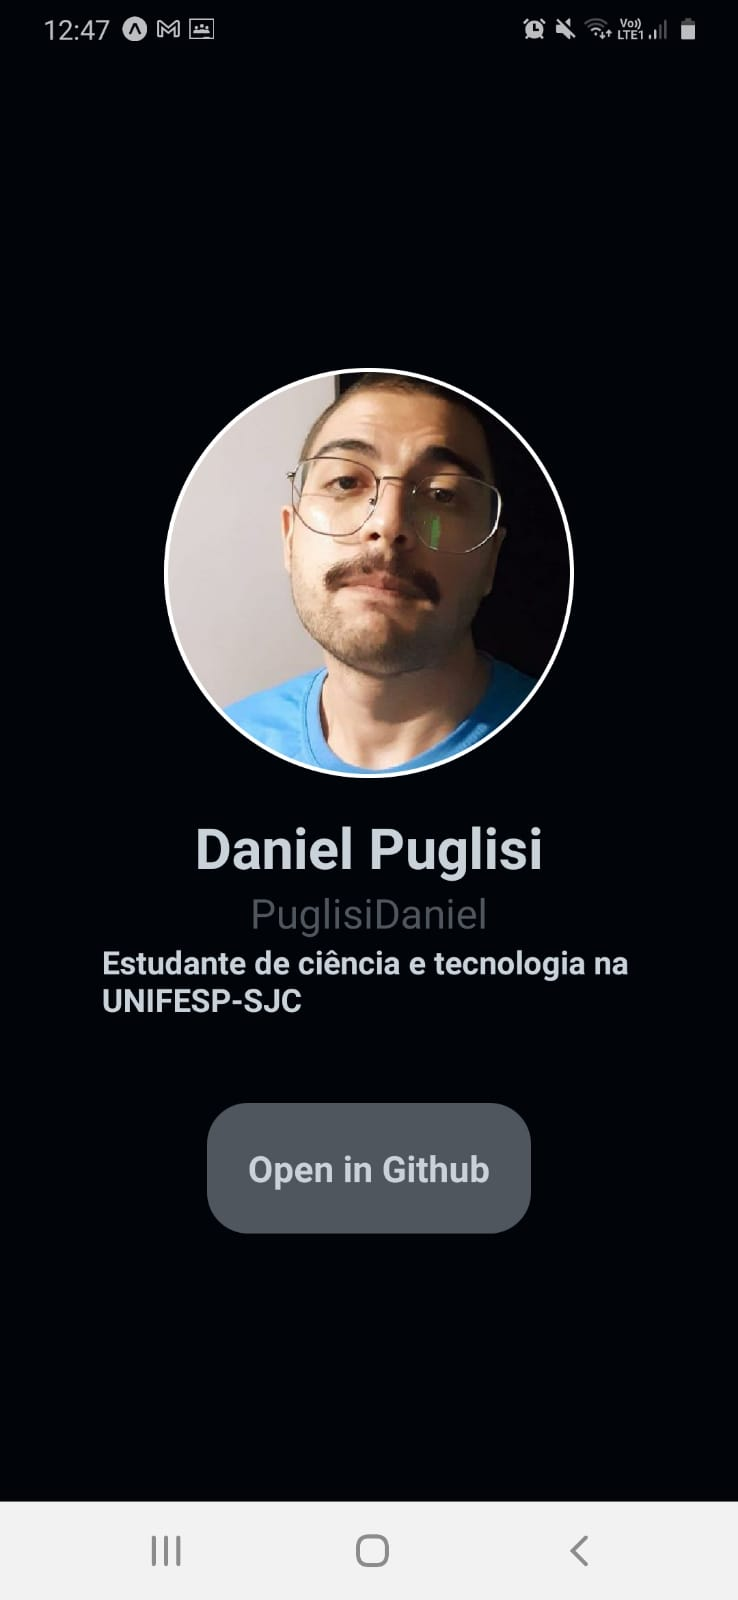
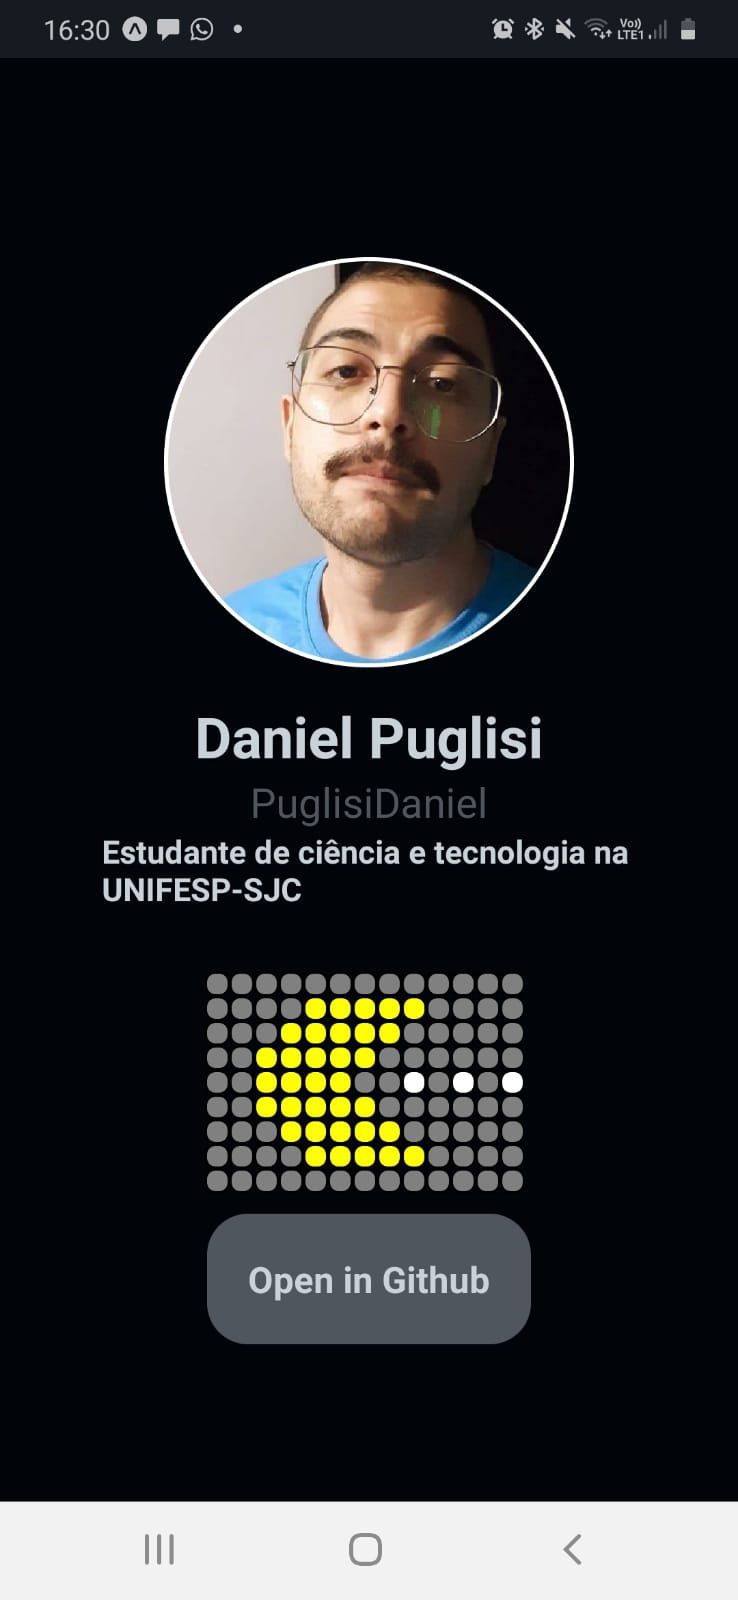
inserindo historico

diff --git a/AulasReactNative/GitHubMobile/App.js b/AulasReactNative/GitHubMobile/App.js
@@ -32,6 +32,150 @@ const App = ()=>{
       style = {[style.text, style.description]}>Estudante de ciência e tecnologia na UNIFESP-SJC</Text>
     </View>
 
+    <View style={[{flexDirection: 'row'}]}>
+      <Text style={style.graySquare}></Text>
+      <Text style={style.graySquare}></Text>
+      <Text style={style.graySquare}></Text>
+      <Text style={style.graySquare}></Text>
+      <Text style={style.graySquare}></Text>
+      <Text style={style.graySquare}></Text> 
+      <Text style={style.graySquare}></Text>
+      <Text style={style.graySquare}></Text>
+      <Text style={style.graySquare}></Text>
+      <Text style={style.graySquare}></Text>
+      <Text style={style.graySquare}></Text>
+      <Text style={style.graySquare}></Text>
+      <Text style={style.graySquare}></Text>  
+    </View>
+
+    <View style={[{flexDirection: 'row'}]}>
+      <Text style={style.graySquare}></Text>
+      <Text style={style.graySquare}></Text>
+      <Text style={style.graySquare}></Text>
+      <Text style={style.graySquare}></Text>
+      <Text style={style.yellowSquare}></Text>
+      <Text style={style.yellowSquare}></Text> 
+      <Text style={style.yellowSquare}></Text>
+      <Text style={style.yellowSquare}></Text>
+      <Text style={style.yellowSquare}></Text>
+      <Text style={style.graySquare}></Text>
+      <Text style={style.graySquare}></Text>
+      <Text style={style.graySquare}></Text>
+      <Text style={style.graySquare}></Text>  
+    </View>
+
+    <View style={[{flexDirection: 'row'}]}>
+      <Text style={style.graySquare}></Text>
+      <Text style={style.graySquare}></Text>
+      <Text style={style.graySquare}></Text>
+      <Text style={style.yellowSquare}></Text>
+      <Text style={style.yellowSquare}></Text>
+      <Text style={style.yellowSquare}></Text> 
+      <Text style={style.yellowSquare}></Text>
+      <Text style={style.yellowSquare}></Text>
+      <Text style={style.graySquare}></Text>
+      <Text style={style.graySquare}></Text>
+      <Text style={style.graySquare}></Text>
+      <Text style={style.graySquare}></Text>
+      <Text style={style.graySquare}></Text>  
+    </View>
+    <View style={[{flexDirection: 'row'}]}>
+      <Text style={style.graySquare}></Text>
+      <Text style={style.graySquare}></Text>
+      <Text style={style.yellowSquare}></Text>
+      <Text style={style.yellowSquare}></Text>
+      <Text style={style.yellowSquare}></Text>
+      <Text style={style.yellowSquare}></Text> 
+      <Text style={style.yellowSquare}></Text>
+      <Text style={style.graySquare}></Text>
+      <Text style={style.graySquare}></Text>
+      <Text style={style.graySquare}></Text>
+      <Text style={style.graySquare}></Text>
+      <Text style={style.graySquare}></Text>
+      <Text style={style.graySquare}></Text>  
+    </View>
+    <View style={[{flexDirection: 'row'}]}>
+      <Text style={style.graySquare}></Text>
+      <Text style={style.graySquare}></Text>
+      <Text style={style.yellowSquare}></Text>
+      <Text style={style.yellowSquare}></Text>
+      <Text style={style.yellowSquare}></Text>
+      <Text style={style.yellowSquare}></Text> 
+      <Text style={style.graySquare}></Text>
+      <Text style={style.graySquare}></Text>
+      <Text style={style.whiteSquare}></Text>
+      <Text style={style.graySquare}></Text>
+      <Text style={style.whiteSquare}></Text>
+      <Text style={style.graySquare}></Text>
+      <Text style={style.whiteSquare}></Text>  
+    </View>
+
+    <View style={[{flexDirection: 'row'}]}>
+      <Text style={style.graySquare}></Text>
+      <Text style={style.graySquare}></Text>
+      <Text style={style.yellowSquare}></Text>
+      <Text style={style.yellowSquare}></Text>
+      <Text style={style.yellowSquare}></Text>
+      <Text style={style.yellowSquare}></Text> 
+      <Text style={style.yellowSquare}></Text>
+      <Text style={style.graySquare}></Text>
+      <Text style={style.graySquare}></Text>
+      <Text style={style.graySquare}></Text>
+      <Text style={style.graySquare}></Text>
+      <Text style={style.graySquare}></Text>
+      <Text style={style.graySquare}></Text>  
+    </View>
+    <View style={[{flexDirection: 'row'}]}>
+      <Text style={style.graySquare}></Text>
+      <Text style={style.graySquare}></Text>
+      <Text style={style.graySquare}></Text>
+      <Text style={style.yellowSquare}></Text>
+      <Text style={style.yellowSquare}></Text>
+      <Text style={style.yellowSquare}></Text> 
+      <Text style={style.yellowSquare}></Text>
+      <Text style={style.yellowSquare}></Text>
+      <Text style={style.graySquare}></Text>
+      <Text style={style.graySquare}></Text>
+      <Text style={style.graySquare}></Text>
+      <Text style={style.graySquare}></Text>
+      <Text style={style.graySquare}></Text>  
+    </View>
+
+    <View style={[{flexDirection: 'row'}]}>
+      <Text style={style.graySquare}></Text>
+      <Text style={style.graySquare}></Text>
+      <Text style={style.graySquare}></Text>
+      <Text style={style.graySquare}></Text>
+      <Text style={style.yellowSquare}></Text>
+      <Text style={style.yellowSquare}></Text> 
+      <Text style={style.yellowSquare}></Text>
+      <Text style={style.yellowSquare}></Text>
+      <Text style={style.yellowSquare}></Text>
+      <Text style={style.graySquare}></Text>
+      <Text style={style.graySquare}></Text>
+      <Text style={style.graySquare}></Text>
+      <Text style={style.graySquare}></Text>  
+    </View>
+
+    <View style={[{flexDirection: 'row'}]}>
+      <Text style={style.graySquare}></Text>
+      <Text style={style.graySquare}></Text>
+      <Text style={style.graySquare}></Text>
+      <Text style={style.graySquare}></Text>
+      <Text style={style.graySquare}></Text>
+      <Text style={style.graySquare}></Text> 
+      <Text style={style.graySquare}></Text>
+      <Text style={style.graySquare}></Text>
+      <Text style={style.graySquare}></Text>
+      <Text style={style.graySquare}></Text>
+      <Text style={style.graySquare}></Text>
+      <Text style={style.graySquare}></Text>
+      <Text style={style.graySquare}></Text>  
+    </View>
+
+    
+
+
 
     <View style={style.button}>
       <Pressable onPress={handlePressGithub}>
@@ -91,9 +235,9 @@ const style = StyleSheet.create({
     
     marginTop: 20,
     
-   // padding: 30,
+   
     alignItems:'center',
-    //backgroundColor: fontDarkColorGit,
+   
     
   },
 
@@ -105,6 +249,44 @@ const style = StyleSheet.create({
     padding: 20
   },
 
+  graySquare: {
+    backgroundColor: 'gray',
+    padding: 5,
+    borderRadius: 5,
+    position: 'relative',
+    top: 10,
+    left: 100,
+    height: 10,
+    width: 10,
+    borderWidth: 1, 
+
+  },
+
+  yellowSquare: {
+    backgroundColor: 'yellow',
+    padding: 5,
+    borderRadius: 5,
+    position: 'relative',
+    top: 10,
+    left: 100,
+    height: 10,
+    width: 10,
+    borderWidth: 1
+
+  },
+
+  whiteSquare: {
+    backgroundColor: 'white',
+    padding: 5,
+    borderRadius: 5,
+    position: 'relative',
+    top: 10,
+    left: 100,
+    height: 10,
+    width: 10,
+    borderWidth: 1
+
+  },
  
 });
 
